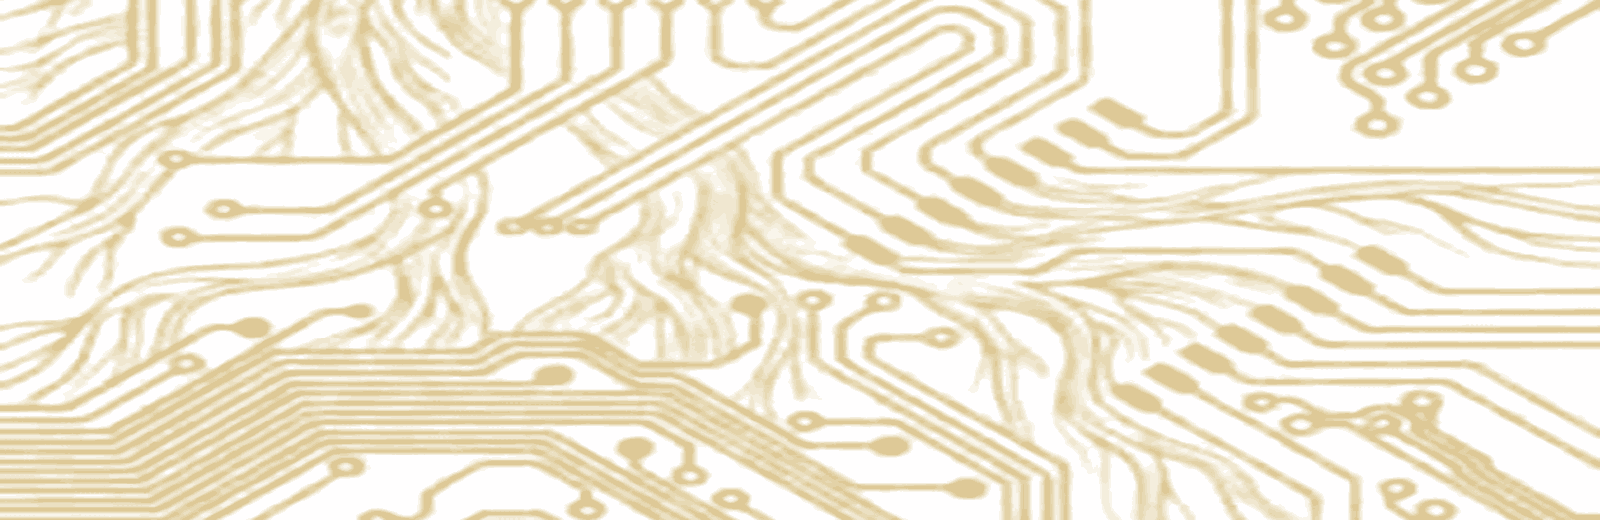
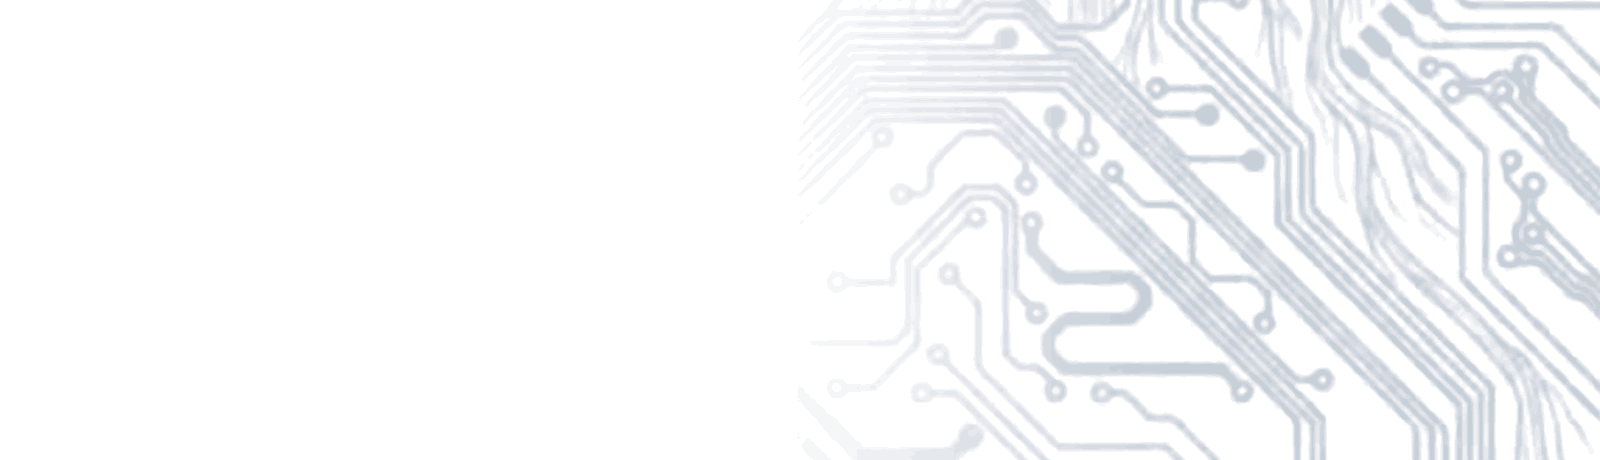
Innovation Ties: fica o modelo de blocos; arte em gelo acinzentado esvanecendo até o texto
- /innovation-ties/ passa a ser o modelo escolhido; o outro modelo e a textura saem
- dois recortes diferentes da arte, sem espelho, recoloridos em gelo acinzentado,
  com o esvanecimento embutido no PNG: cheio à direita, some antes do texto
- o mesmo tratamento no hero e no bloco de começar; no celular a arte desce para
  o canto inferior direito
- sai o subtítulo da seção 01; abaixo de Innovation Ties request entra a linha
  Fill in the form below and request an online conversation

Claude-Session: https://claude.ai/code/session_01JDz63bo1eBAP8Zui6Un6fL

diff --git a/css/innovation-ties.css b/css/innovation-ties.css
@@ -2,10 +2,8 @@
    Live & Learn Brazil — /innovation-ties/
    Tokens de styles.css; rótulos, títulos, botões e fecho vêm de due-diligence.css,
    e os campos do formulário de full-advisory.css. Aqui só o que é próprio desta
-   página, mais os dois modelos de design sobre a mesma copy:
-
-     .it-modelo-a  a arte de circuito como TEXTURA, repetida ao fundo
-     .it-modelo-b  a arte de circuito como BLOCOS (painel do hero e faixa larga)
+   página: a arte de circuito em dois blocos ardósia (o hero e o convite a
+   começar), em gelo acinzentado, à direita, esvanecendo antes do texto.
 
    Gelo dominante, grafite no texto, ardósia no hero e no fecho, champanhe nos
    fios, números e na arte. Sem sombra, sem canto arredondado.
@@ -17,7 +15,7 @@
    1. Hero (ardósia)
    -------------------------------------------------------------------------- */
 .it-hero { position: relative; isolation: isolate; background: var(--ardosia); padding: 72px var(--margem) 88px; }
-.it-hero-texto { display: flex; flex-direction: column; gap: 20px; max-width: 980px; }
+.it-hero-texto { display: flex; flex-direction: column; gap: 20px; max-width: 62%; }
 .it-migalhas { display: flex; flex-wrap: wrap; gap: 6px 10px; font-size: 16px; letter-spacing: 0.12em; color: var(--texto-sobre-ardosia); margin-bottom: 4px; }
 .it-migalhas a { color: var(--texto-sobre-ardosia); padding-bottom: 2px; border-bottom: 1px solid var(--champagne); transition: color 0.25s ease; }
 .it-migalhas a:hover { color: var(--champagne); }
@@ -86,6 +84,7 @@
 
 .it-form-secao { max-width: calc(var(--coluna-form) + 2 * var(--margem)); box-sizing: content-box; }
 .it-form { gap: 48px; margin-top: 8px; max-width: var(--coluna-form); }
+.it-form-lead { font-size: 22px; line-height: 1.5; color: var(--grafite); }
 .it-nota-req { font-size: 15px; line-height: 1.5; color: var(--texto-secundario); }
 .it-req { color: var(--amora); font-weight: 700; }
 .it-secao { gap: 28px; padding-top: 12px; border-top: 2px solid var(--champagne); }
@@ -109,75 +108,33 @@
 .it-fecho-cta:hover { color: var(--champagne); }
 
 /* ==========================================================================
-   MODELO A — a arte de circuito como textura
+   A arte de circuito nos dois blocos ardósia
+   O desenho já vem em gelo acinzentado e com o esvanecimento embutido no PNG:
+   cheio à direita, transparente onde o texto passa. Por isso aqui não há véu.
+   São dois recortes diferentes da mesma arte, nunca espelhados.
    ========================================================================== */
-.it-textura, .it-hero--textura, .it-comecar--textura { position: relative; isolation: isolate; }
-.it-textura::before, .it-hero--textura::before, .it-comecar--textura::before {
+.it-hero--arte, .it-comecar--arte { position: relative; isolation: isolate; }
+.it-hero--arte::before, .it-comecar--arte::before {
   content: "";
   position: absolute;
   inset: 0;
-  z-index: -1;                       /* atrás do texto, à frente do fundo da seção */
-  background-image: url("../img/circuito-textura.png");
-  background-repeat: repeat;
-  background-size: 420px auto;
-  pointer-events: none;
-}
-.it-textura::before { opacity: 0.15; }
-.it-hero--textura::before { opacity: 0.26; background-size: 560px auto; }
-.it-comecar--textura::before { opacity: 0.38; background-size: 380px auto; }
-
-/* Véu sobre o hero: o texto fica num campo limpo, a textura aparece à direita */
-.it-hero--textura::after {
-  content: "";
-  position: absolute;
-  inset: 0;
-  z-index: -1;
-  background: linear-gradient(100deg, var(--ardosia) 22%, rgba(62, 73, 95, 0.86) 46%, rgba(62, 73, 95, 0.2) 78%);
-  pointer-events: none;
-}
-
-/* ==========================================================================
-   MODELO B — a arte de circuito como blocos
-   ========================================================================== */
-/* Bloco 1: painel ao lado do título */
-.it-hero--painel { display: grid; grid-template-columns: minmax(0, 7fr) minmax(0, 5fr); gap: 56px; align-items: stretch; padding-right: 0; }
-.it-hero--painel .it-hero-texto { padding: 8px 0 8px; }
-.it-painel {
-  background-color: #2F3A4C;         /* um tom abaixo da ardósia, para o desenho aparecer */
-  background-image: url("../img/circuito-bloco.png");
-  background-size: cover;
-  background-position: 40% center;
-  min-height: 460px;
-}
-/* Bloco 2: faixa larga antes do formulário */
-.it-comecar--faixa { position: relative; isolation: isolate; background: var(--ardosia); padding-top: 88px; padding-bottom: 96px; }
-.it-comecar--faixa::before {
-  content: "";
-  position: absolute;
-  inset: 0;
-  z-index: -1;
-  background-image: url("../img/circuito-faixa.png");
+  z-index: -1;                       /* atrás do texto, à frente do fundo ardósia */
   background-repeat: no-repeat;
   background-position: right center;
   background-size: cover;
-  opacity: 0.5;
   pointer-events: none;
 }
-/* Véu à esquerda: o convite fica legível, o desenho continua visível à direita */
-.it-comecar--faixa::after {
-  content: "";
-  position: absolute;
-  inset: 0;
-  z-index: -1;
-  background: linear-gradient(100deg, var(--ardosia) 18%, rgba(62, 73, 95, 0.82) 44%, rgba(62, 73, 95, 0.12) 82%);
-  pointer-events: none;
-}
-.it-comecar--faixa .dd-rotulo--sub { color: var(--champagne); }
-.it-comecar--faixa .it-comecar-titulo { color: var(--gelo); }
-.it-comecar--faixa .dd-btn { background: transparent; border-color: var(--gelo); color: var(--gelo); }
-.it-comecar--faixa .dd-btn:hover { background: var(--gelo); color: var(--ardosia); }
-.it-comecar--faixa .it-link { color: var(--gelo); }
-.it-comecar--faixa .it-link:hover { color: var(--champagne); }
+.it-hero--arte::before { background-image: url("../img/circuito-hero.png"); opacity: 0.9; }
+.it-comecar--arte::before { background-image: url("../img/circuito-faixa.png"); opacity: 0.85; }
+
+/* Segundo bloco: ardósia, como o hero */
+.it-comecar--arte { background: var(--ardosia); padding-top: 88px; padding-bottom: 96px; }
+.it-comecar--arte .dd-rotulo--sub { color: var(--champagne); }
+.it-comecar--arte .it-comecar-titulo { color: var(--gelo); }
+.it-comecar--arte .dd-btn { background: transparent; border-color: var(--gelo); color: var(--gelo); }
+.it-comecar--arte .dd-btn:hover { background: var(--gelo); color: var(--ardosia); }
+.it-comecar--arte .it-link { color: var(--gelo); }
+.it-comecar--arte .it-link:hover { color: var(--champagne); }
 
 /* --------------------------------------------------------------------------
    Tablet
@@ -194,10 +151,11 @@
   .it-preco-linha { grid-template-columns: minmax(0, 1fr); gap: 8px; }
   .it-comecar { padding: 56px var(--margem) 60px; }
   .it-comecar-titulo { font-size: 36px; }
+  .it-form-lead { font-size: 20px; }
   .it-fecho h2 { font-size: 40px; }
 
-  .it-hero--painel { grid-template-columns: minmax(0, 1fr); gap: 36px; padding-right: var(--margem); }
-  .it-painel { min-height: 280px; background-position: center 35%; }
+  .it-hero-texto { max-width: 74%; }
+  .it-comecar--arte { padding-top: 64px; padding-bottom: 68px; }
 }
 
 /* --------------------------------------------------------------------------
@@ -225,9 +183,16 @@
 
   .it-comecar { padding: 44px var(--margem) 48px; }
   .it-comecar-titulo { font-size: 30px; }
-  .it-comecar--faixa { padding-top: 56px; padding-bottom: 60px; }
+  .it-form-lead { font-size: 18px; }
+  .it-comecar--arte { padding-top: 48px; padding-bottom: 52px; }
   .it-fecho h2 { font-size: 32px; }
   .it-fecho-cta { font-size: 16px; }
-  .it-painel { min-height: 220px; }
-  .it-hero--textura::before { background-size: 380px auto; }
+  /* No celular não há faixa livre ao lado do texto: a arte desce para o canto
+     inferior direito, menor e mais fraca, e o título fica num campo limpo. */
+  .it-hero-texto { max-width: 100%; }
+  .it-hero--arte::before, .it-comecar--arte::before {
+    opacity: 0.3;
+    background-position: right bottom;
+    background-size: auto 62%;
+  }
 }

diff --git a/innovation-ties/index.php b/innovation-ties/index.php
@@ -1,6 +1,8 @@
 <?php
-/* Live & Learn Brazil — /innovation-ties/ — MODELO A: a arte de circuito entra como
-   textura, repetida ao fundo do hero e de duas seções, sempre em champanhe fraco.
+/* Live & Learn Brazil — /innovation-ties/
+   A arte de circuito entra como dois blocos em ardósia: o hero e a faixa de
+   "get started". Em cada um o desenho fica em gelo acinzentado, à direita, e
+   esvanece antes de chegar ao texto (o esvanecimento já vem no próprio PNG).
    enviar.php inclui este arquivo quando o envio falha sem JavaScript, passando
    $it_valores (o que a pessoa já tinha escrito) e $it_erro. */
 declare(strict_types=1);
@@ -20,22 +22,22 @@ $carimbo = $emitido . '.' . hash_hmac('sha256', (string) $emitido, fa_segredo())
 <head>
 <?php it_head($raiz, 'https://liveandlearnbrazil.com/innovation-ties/'); ?>
 </head>
-<body class="it-modelo-a<?= $erro ? ' fa-estado-erro' : '' ?>">
+<body class="<?= $erro ? 'fa-estado-erro' : '' ?>">
 <div class="page dd fa it">
 
 <?php it_cabecalho($raiz); ?>
 
   <main>
 
-  <!-- ===== HERO (ardósia, textura de circuito por cima) ===== -->
-  <section class="it-hero it-hero--textura" aria-labelledby="it-h1">
+  <!-- ===== HERO: bloco ardósia, circuito à direita esvanecendo até o texto ===== -->
+  <section class="it-hero it-hero--arte" aria-labelledby="it-h1">
     <div class="it-hero-texto">
 <?php it_hero_texto($raiz); ?>
     </div>
   </section>
 
-  <!-- ===== 01 / POR QUE VALE (gelo com textura fraca) ===== -->
-  <section class="dd-secao it-textura" aria-label="Why it is worth the work">
+  <!-- ===== 01 / POR QUE VALE ===== -->
+  <section class="dd-secao" aria-label="Why it is worth the work">
 <?php it_intro(); ?>
   </section>
 
@@ -44,8 +46,8 @@ $carimbo = $emitido . '.' . hash_hmac('sha256', (string) $emitido, fa_segredo())
 <?php it_oque(); ?>
   </section>
 
-  <!-- ===== 03 / COMO FUNCIONA: a linha com pontos (gelo com textura fraca) ===== -->
-  <section class="dd-secao it-textura" aria-label="How it works">
+  <!-- ===== 03 / COMO FUNCIONA: a linha com pontos ===== -->
+  <section class="dd-secao" aria-label="How it works">
 <?php it_como(); ?>
   </section>
 
@@ -55,8 +57,8 @@ $carimbo = $emitido . '.' . hash_hmac('sha256', (string) $emitido, fa_segredo())
 <?php it_preco(); ?>
   </section>
 
-  <!-- ===== COMEÇAR (champagne-claro, textura mais presente) ===== -->
-  <section class="it-comecar it-comecar--textura" aria-label="Get started">
+  <!-- ===== COMEÇAR: segundo bloco ardósia, mesmo tratamento do hero ===== -->
+  <section class="it-comecar it-comecar--arte" aria-label="Get started">
 <?php it_comecar($raiz); ?>
   </section>
 
@@ -75,6 +77,6 @@ $carimbo = $emitido . '.' . hash_hmac('sha256', (string) $emitido, fa_segredo())
 <?php it_rodape($raiz); ?>
 
 </div>
-<script type="module" src="<?= e($raiz) ?>src/components/innovation/formulario.js?v=20260923a"></script>
+<script type="module" src="<?= e($raiz) ?>src/components/innovation/formulario.js?v=20260923b"></script>
 </body>
 </html>

diff --git a/innovation-ties/partes.php b/innovation-ties/partes.php
@@ -45,7 +45,6 @@ function it_intro(): void
     $c = IT_COPY; ?>
     <div class="dd-cabeca">
       <p class="dd-rotulo dd-rotulo--secao"><?= e($c['intro_rotulo']) ?></p>
-      <h2 class="dd-titulo"><?= e($c['intro_titulo']) ?></h2>
       <div class="dd-intro"><p><?= e($c['intro']) ?></p></div>
     </div>
 <?php }
@@ -187,14 +186,14 @@ function it_formulario(string $raiz, string $carimbo, array $valores = []): void
     <div class="dd-cabeca">
       <p class="dd-rotulo dd-rotulo--secao"><?= e($c['form_rotulo']) ?></p>
       <h2 class="dd-titulo" id="it-t-form"><?= e($c['form_titulo']) ?></h2>
+      <p class="it-form-lead"><?= e($c['form_lead']) ?></p>
       <div class="dd-intro dd-intro--linha"><p><?= e($c['form_intro']) ?></p></div>
     </div>
 
-    <form class="fa-form it-form" id="it-form" method="post" action="<?= e($raiz === '../' ? 'enviar.php' : '../enviar.php') ?>" accept-charset="UTF-8" novalidate>
+    <form class="fa-form it-form" id="it-form" method="post" action="enviar.php" accept-charset="UTF-8" novalidate>
       <p class="fa-erro" id="it-erro" role="alert" tabindex="-1"><?= e($c['erro']) ?></p>
 
       <input type="hidden" name="t" value="<?= e($carimbo) ?>">
-      <input type="hidden" name="modelo" value="<?= $raiz === '../' ? 'a' : 'b' ?>">
       <div class="fa-armadilha" aria-hidden="true">
         <label for="it-website-extra">Website</label>
         <input type="text" id="it-website-extra" name="website_extra" tabindex="-1" autocomplete="off">
@@ -246,5 +245,5 @@ function it_head(string $raiz, string $canonical, bool $noindex = false): void
   <link rel="stylesheet" href="<?= e($raiz) ?>css/styles.css?v=20260921a">
   <link rel="stylesheet" href="<?= e($raiz) ?>css/due-diligence.css?v=20260921c">
   <link rel="stylesheet" href="<?= e($raiz) ?>css/full-advisory.css?v=20260921b">
-  <link rel="stylesheet" href="<?= e($raiz) ?>css/innovation-ties.css?v=20260923a">
+  <link rel="stylesheet" href="<?= e($raiz) ?>css/innovation-ties.css?v=20260923b">
 <?php }

diff --git a/innovation-ties/dados.php b/innovation-ties/dados.php
@@ -15,7 +15,6 @@ const IT_COPY = [
     'cta_secundario' => 'Schedule an initial call',
 
     'intro_rotulo' => '01 / WHY IT IS WORTH THE WORK',
-    'intro_titulo' => 'The most original innovation happens between different cultures.',
     'intro'        => 'In the 2020s, technology connects production chains across cultures from the very first idea. Teams in different countries can now develop a project together from day one, compressing into months what used to take years. Cross-cultural partnerships are where some of the most original innovation happens. They are also demanding: different languages, expectations and ways of working can slow a promising project down. With the right support, a shared ground for communication and clear working mechanisms, two diverse teams can reach their goal and build something new together.',
 
     'oque_rotulo'  => '02 / WHAT WE DO',
@@ -62,6 +61,7 @@ const IT_COPY = [
 
     'form_rotulo'  => 'INNOVATION TIES REQUEST',
     'form_titulo'  => 'Innovation Ties request',
+    'form_lead'    => 'Fill in the form below and request an online conversation.',
     'form_intro'   => 'Innovation Ties works with institutions that have a defined project and the resources to develop an international partnership, which usually includes at least one delegation visit. The questions below help us assess fit and prepare a relevant first mapping. We reply within 5 business days.',
     'obrigatorio'  => '*',
     'obrigatorio_nota' => 'Fields marked with an asterisk are required.',

diff --git a/innovation-ties/enviar.php b/innovation-ties/enviar.php
@@ -18,7 +18,6 @@ header('X-Content-Type-Options: nosniff');
 const IT_CONFIRMACAO = '/innovation-ties/request-received/';
 
 $quer_json = str_contains($_SERVER['HTTP_ACCEPT'] ?? '', 'application/json');
-$modelo = (($_POST['modelo'] ?? '') === 'b') ? 'b' : 'a';
 
 /* ---- Leitura e limpeza ----------------------------------------------------------- */
 
@@ -48,7 +47,7 @@ $valores = [];
 
 function responder(bool $ok, string $motivo = ''): never
 {
-    global $quer_json, $modelo, $valores;
+    global $quer_json, $valores;
     if ($quer_json) {
         header('Content-Type: application/json; charset=UTF-8');
         echo json_encode($ok ? ['ok' => true, 'redirect' => IT_CONFIRMACAO] : ['ok' => false, 'reason' => $motivo]);
@@ -62,7 +61,7 @@ function responder(bool $ok, string $motivo = ''): never
     http_response_code(422);
     $it_valores = $valores;
     $it_erro = true;
-    require __DIR__ . ($modelo === 'b' ? '/modelo-b/index.php' : '/index.php');
+    require __DIR__ . '/index.php';
     exit;
 }
 
